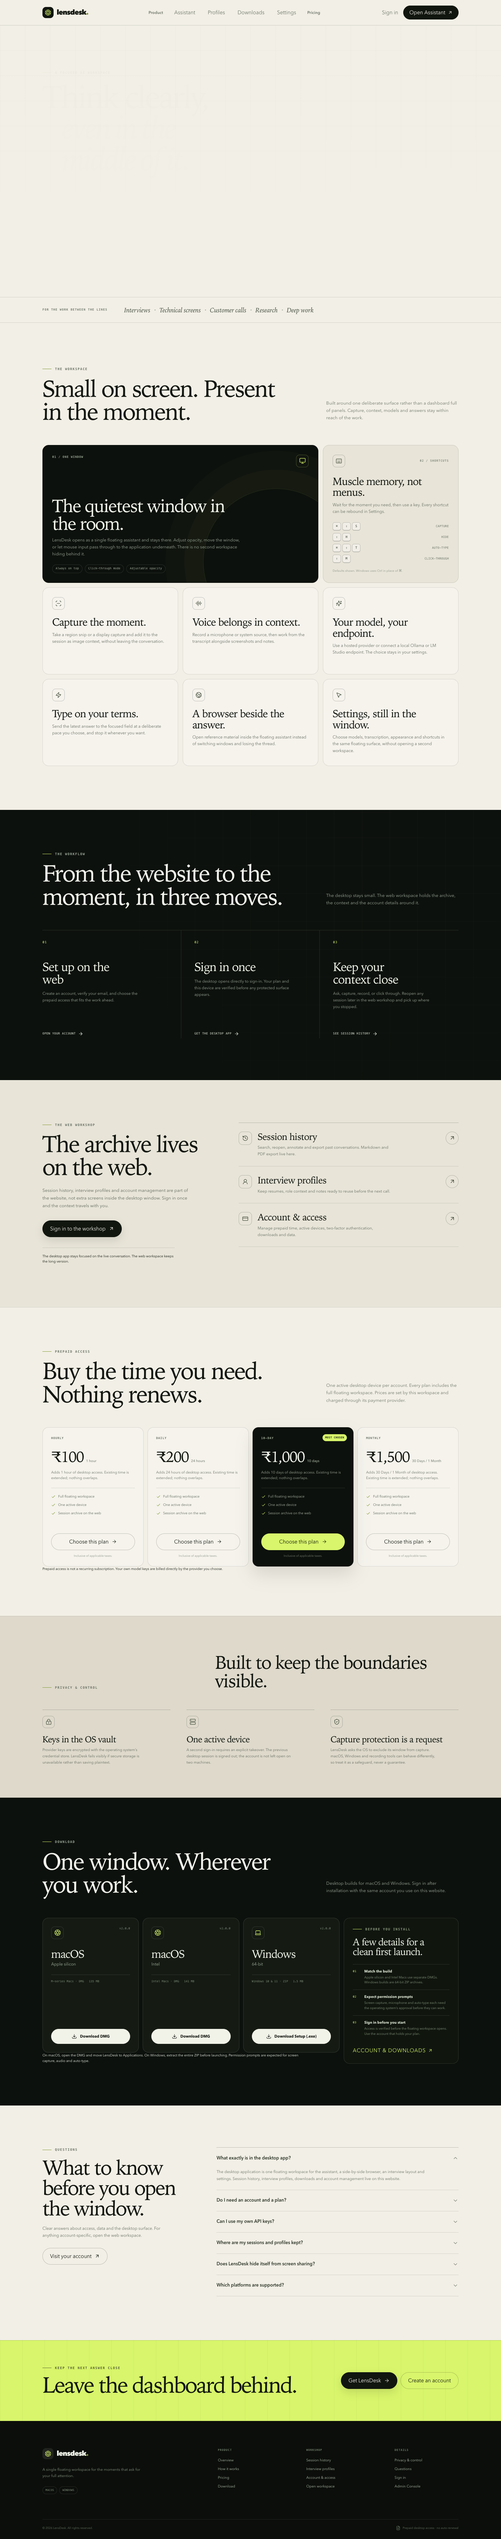
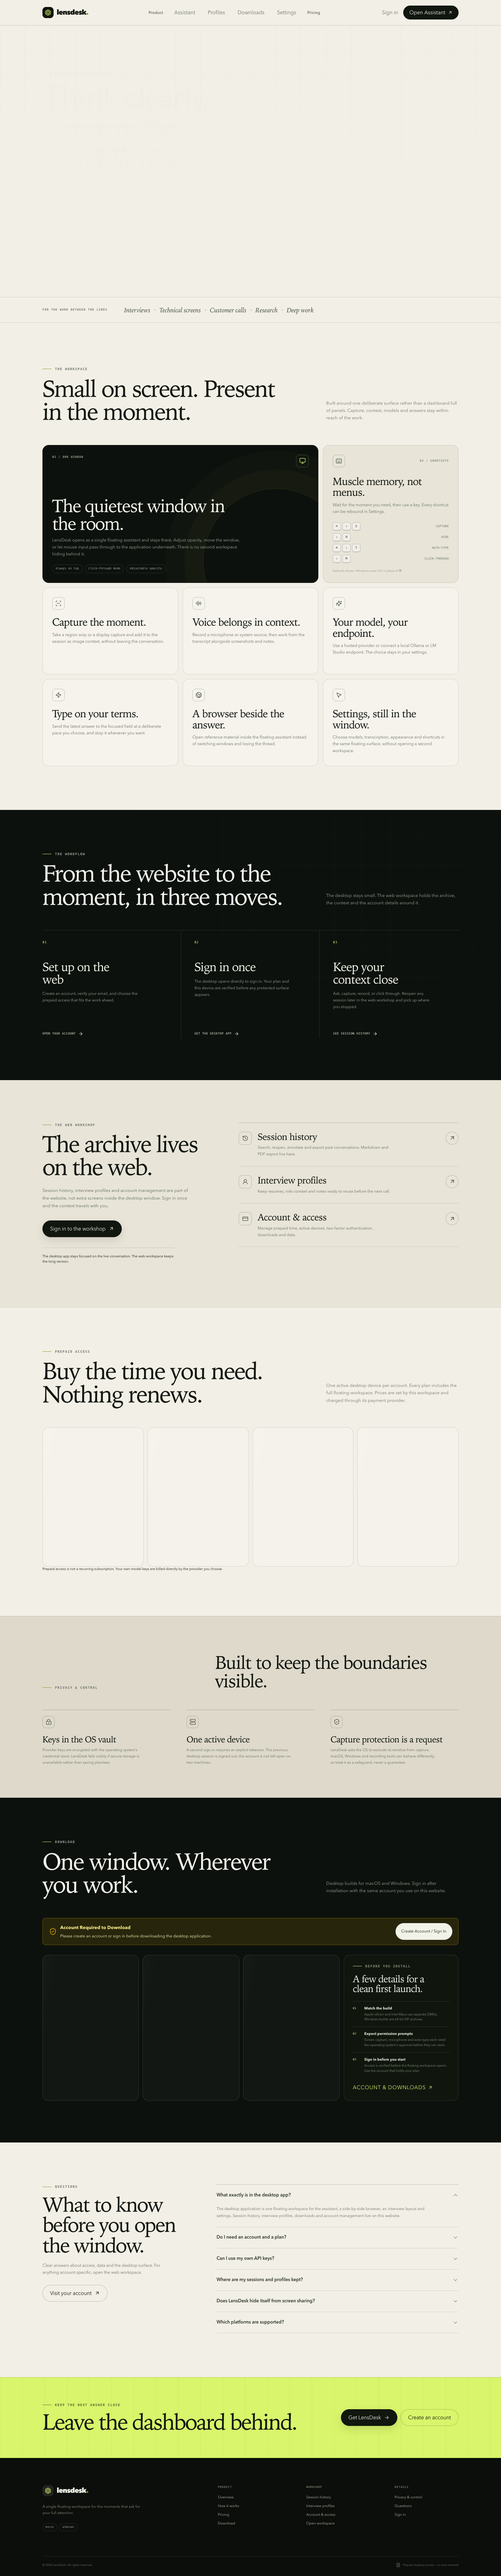
fix(account): queue in-flight run requests and stabilize sign-out heading transition

diff --git a/src/Account.tsx b/src/Account.tsx
@@ -68,7 +68,11 @@ export function Account({
     return value;
   }
   async function run(fn: () => Promise<void>) {
-    if (workInProgress.current) return;
+    let waited = 0;
+    while (workInProgress.current && waited < 100) {
+      await new Promise((r) => setTimeout(r, 50));
+      waited++;
+    }
     workInProgress.current = true;
     setBusy(true);
     try {
